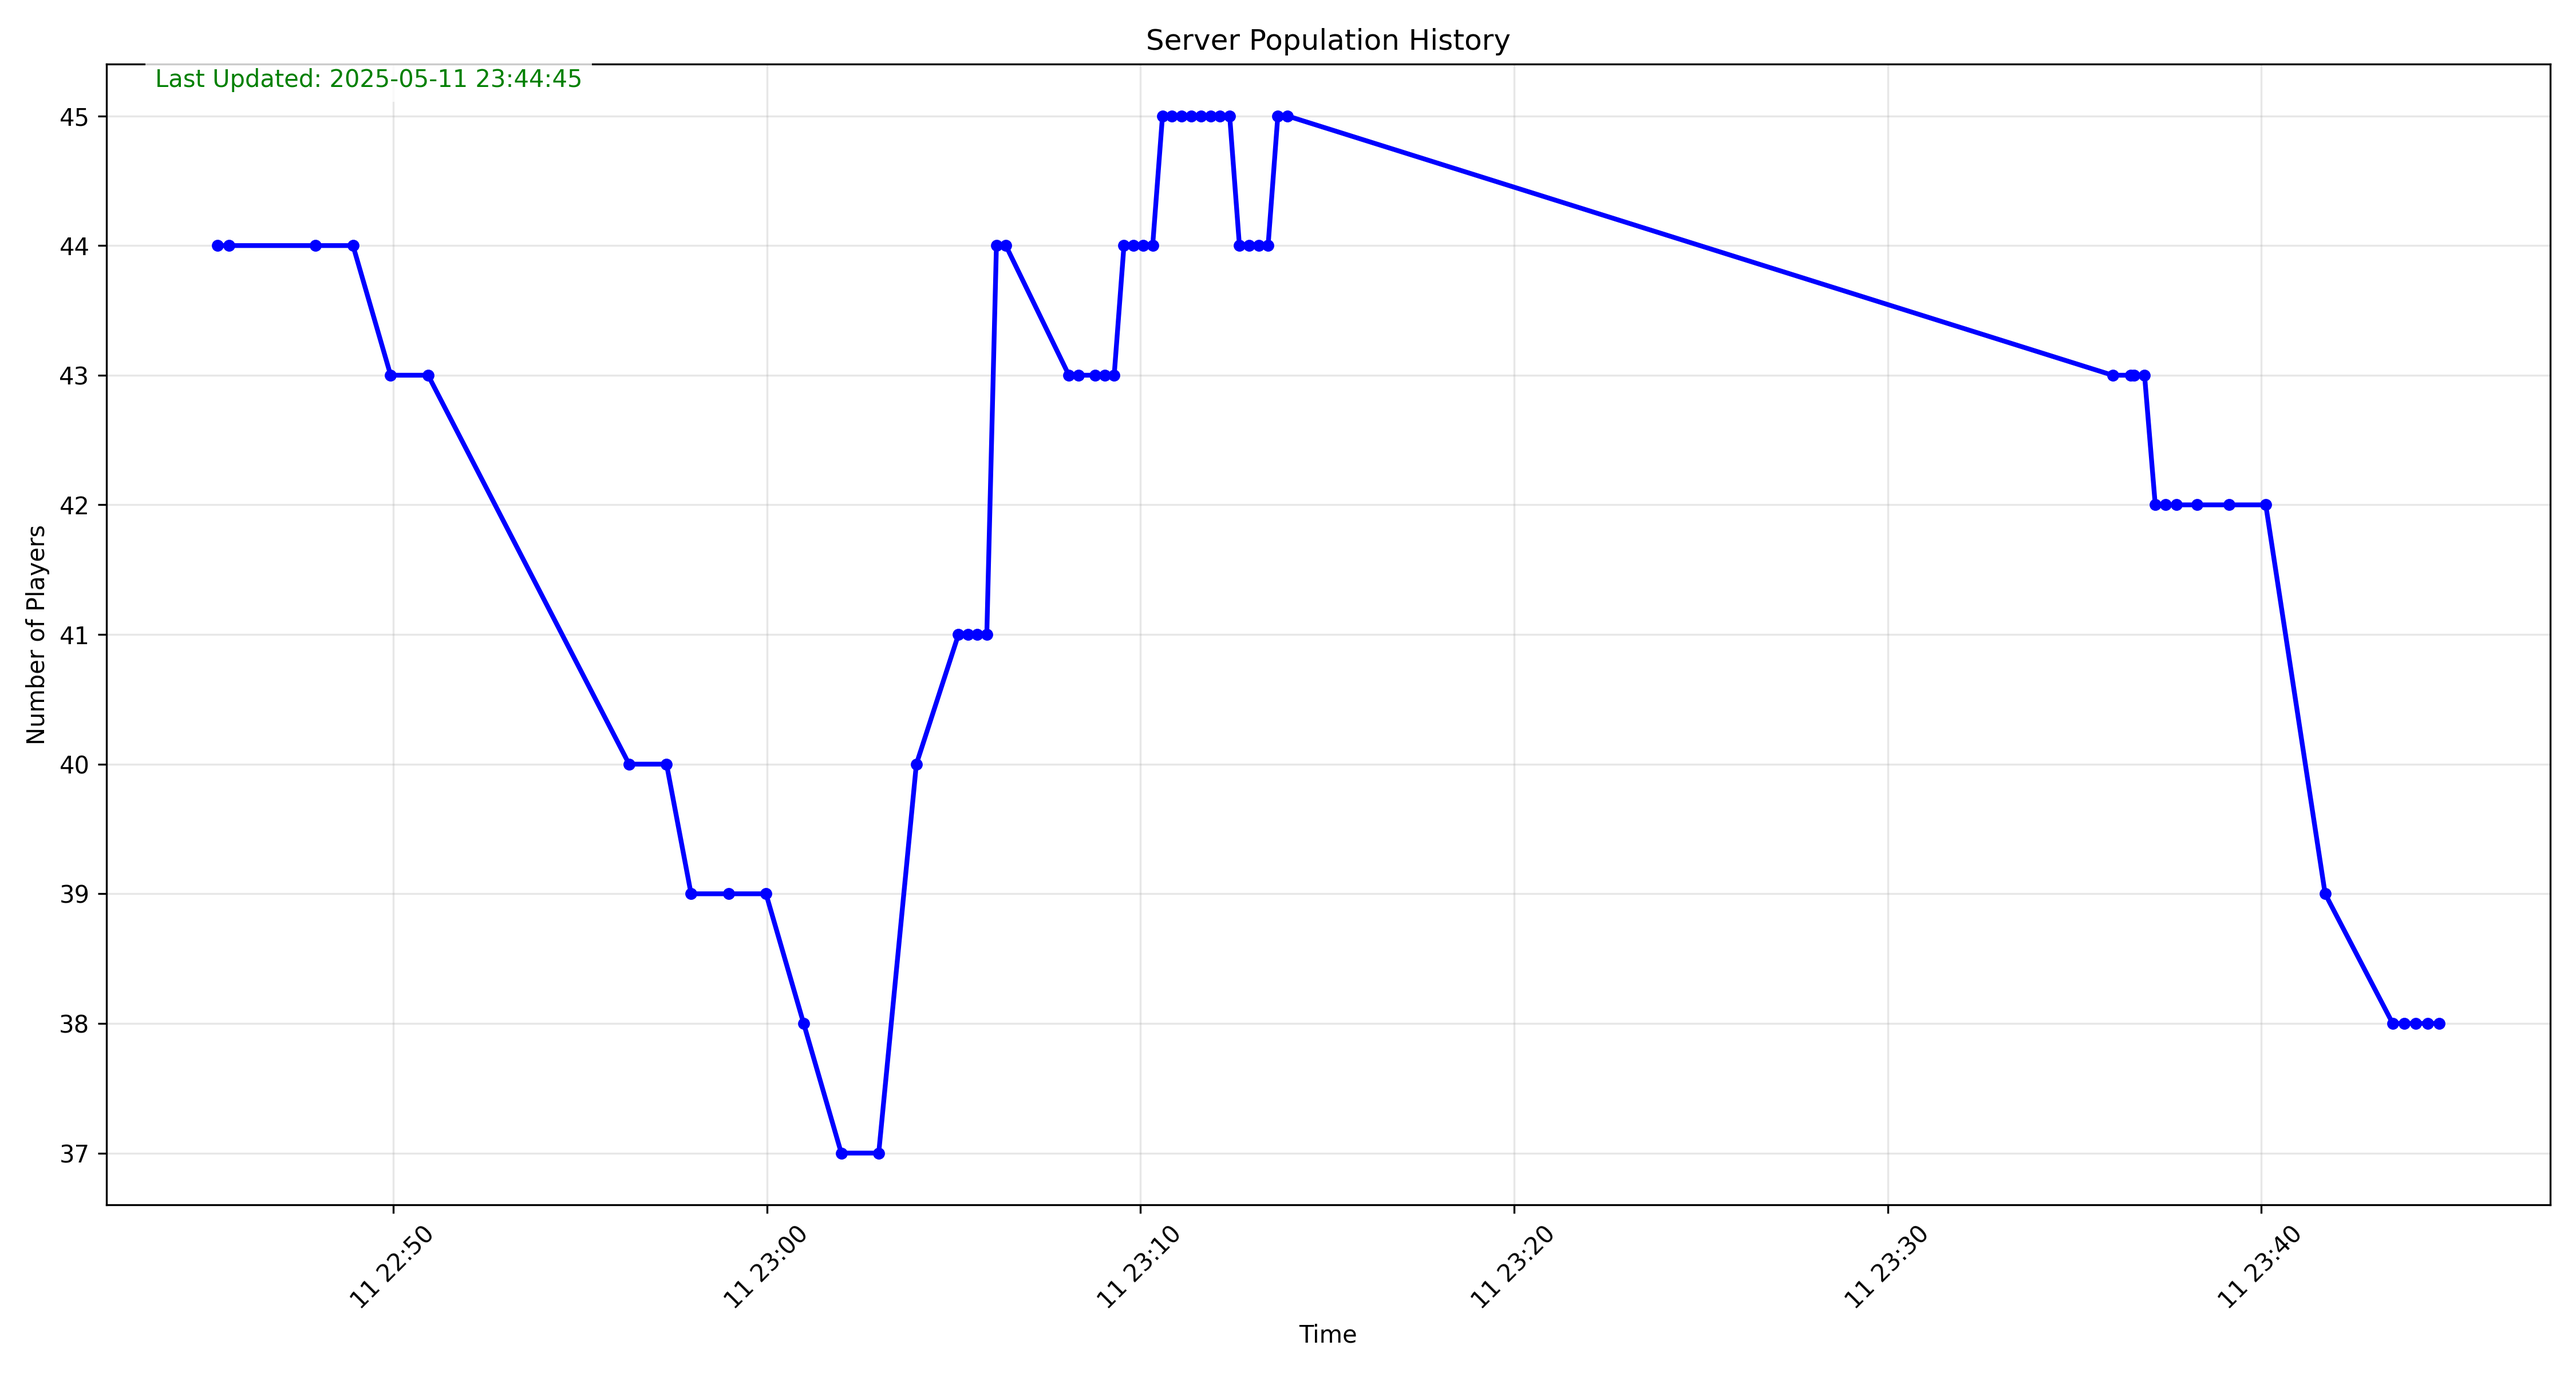
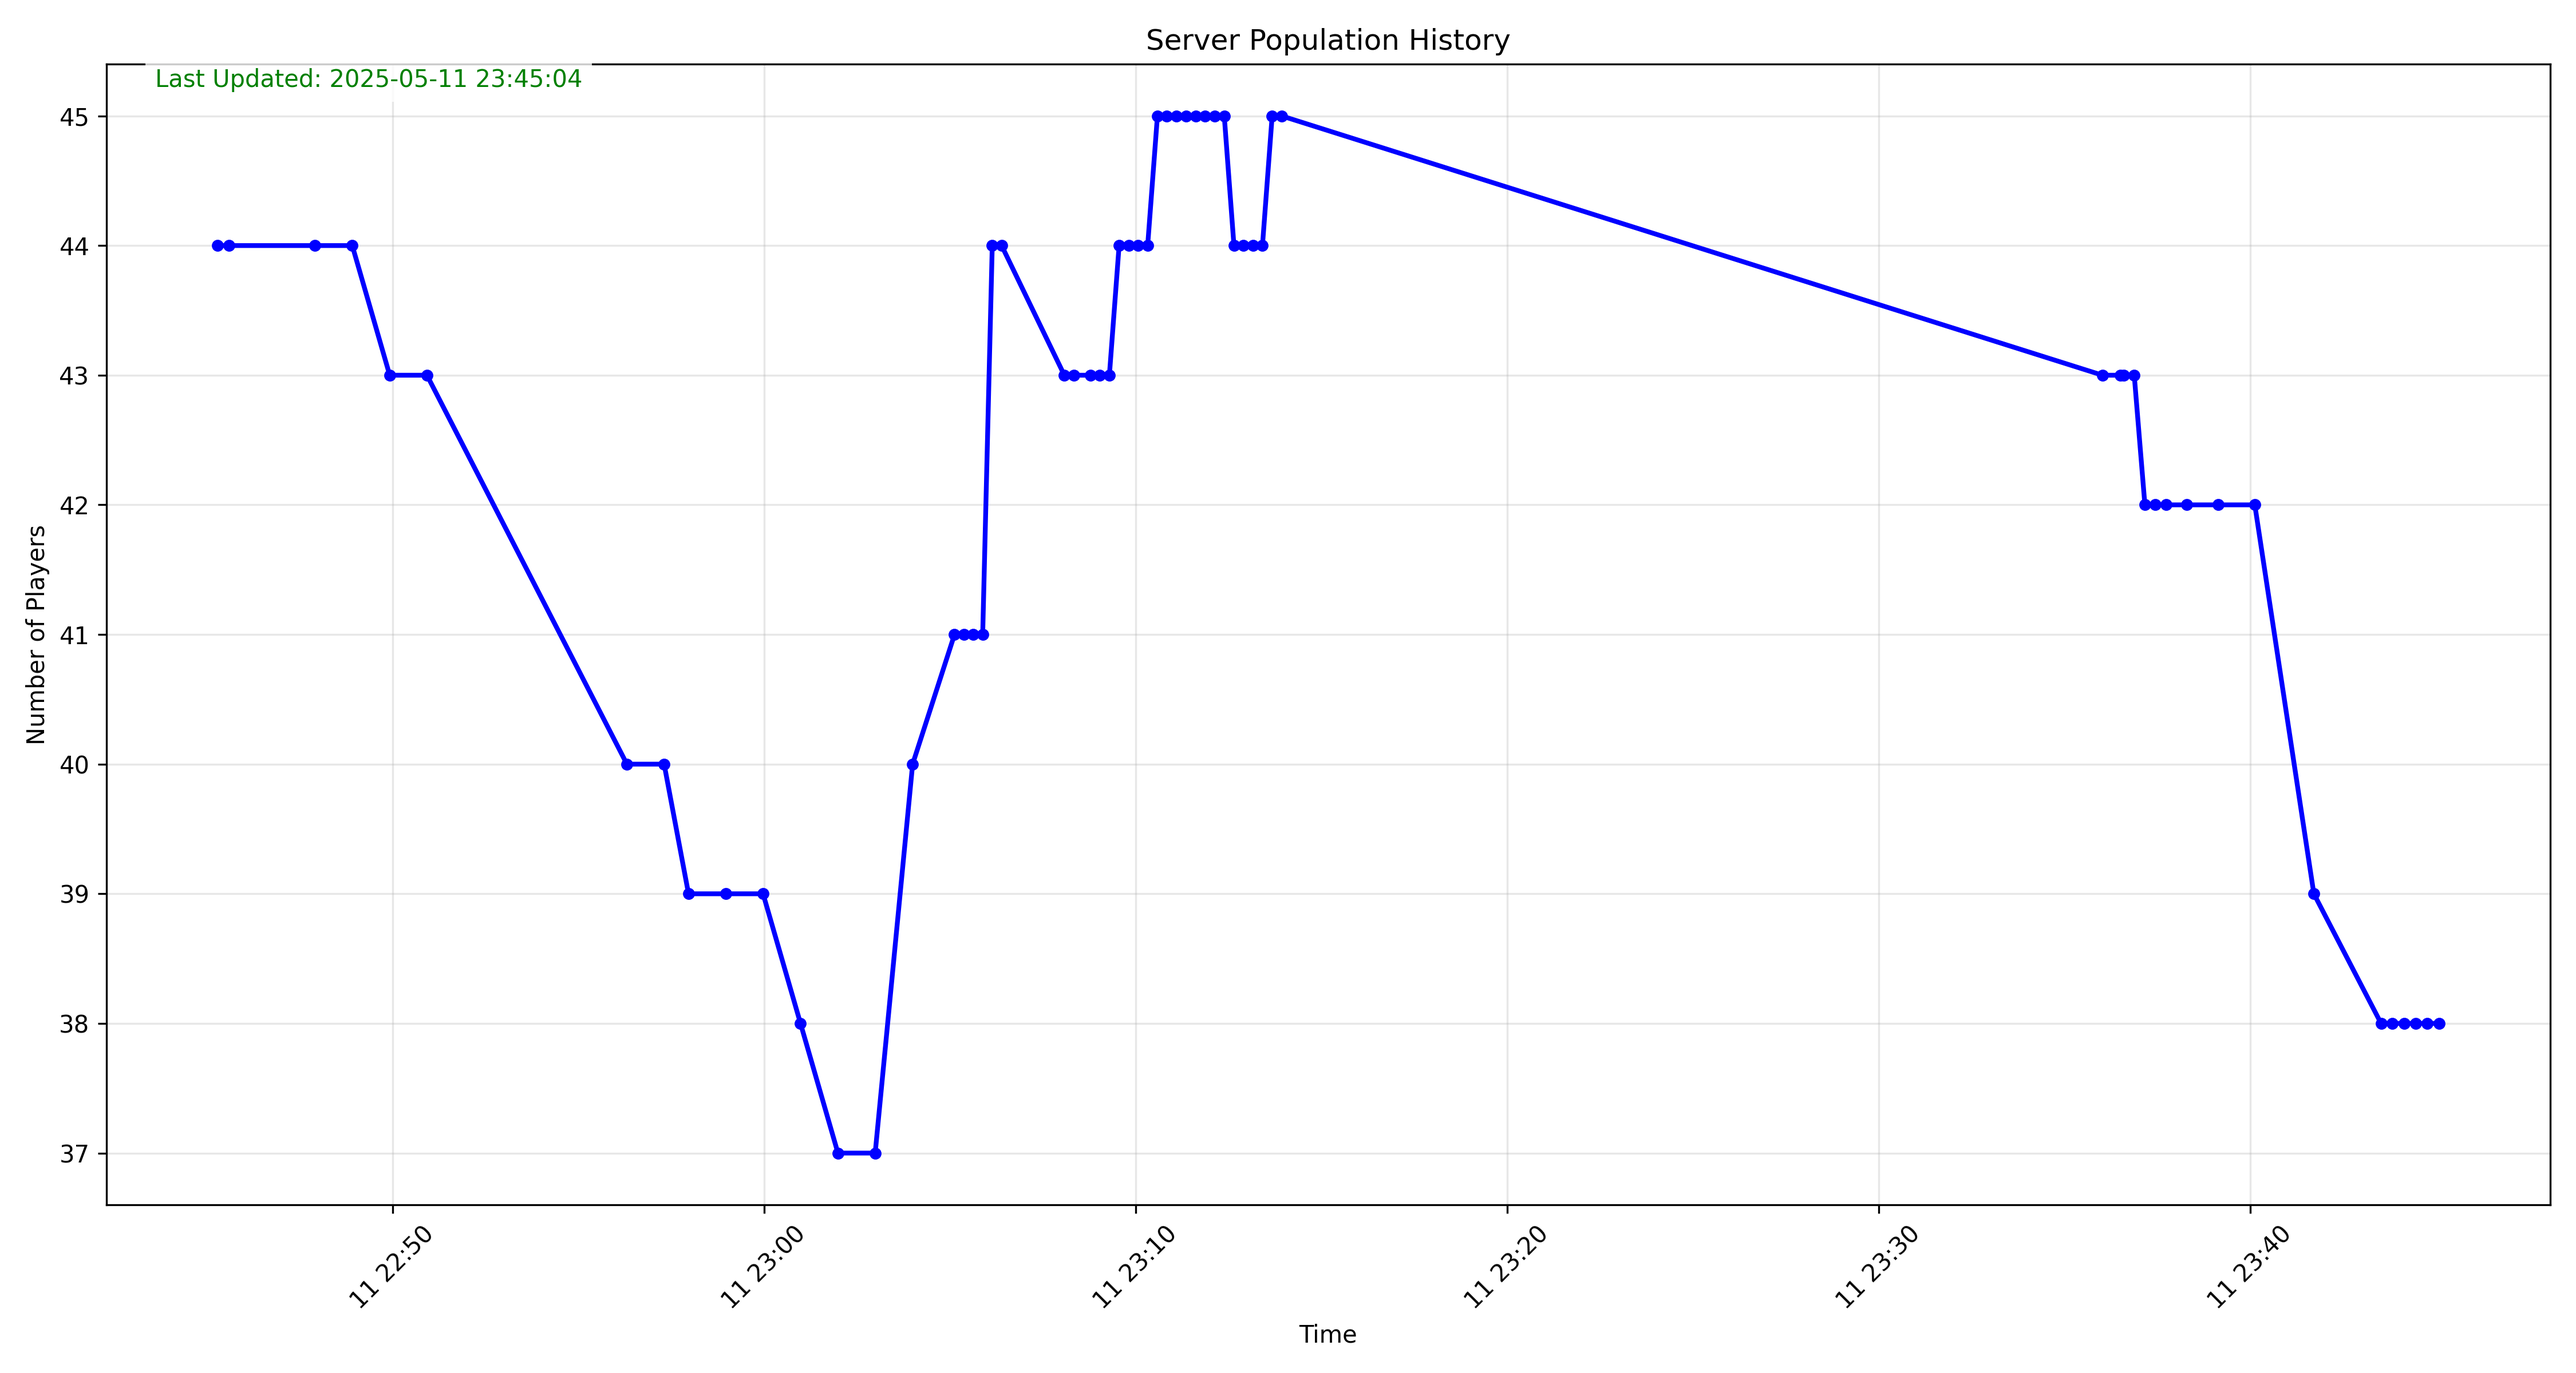
Update graph 2025-05-11 23:45:06

diff --git a/index.html b/index.html
@@ -9,7 +9,7 @@
             </style>
         </head>
         <body>
-            <div class="update-time">Last Updated: 2025-05-11 23:44:47</div>
+            <div class="update-time">Last Updated: 2025-05-11 23:45:06</div>
             <img src="server_population.png" alt="Server Population Graph">
         </body>
         </html>
